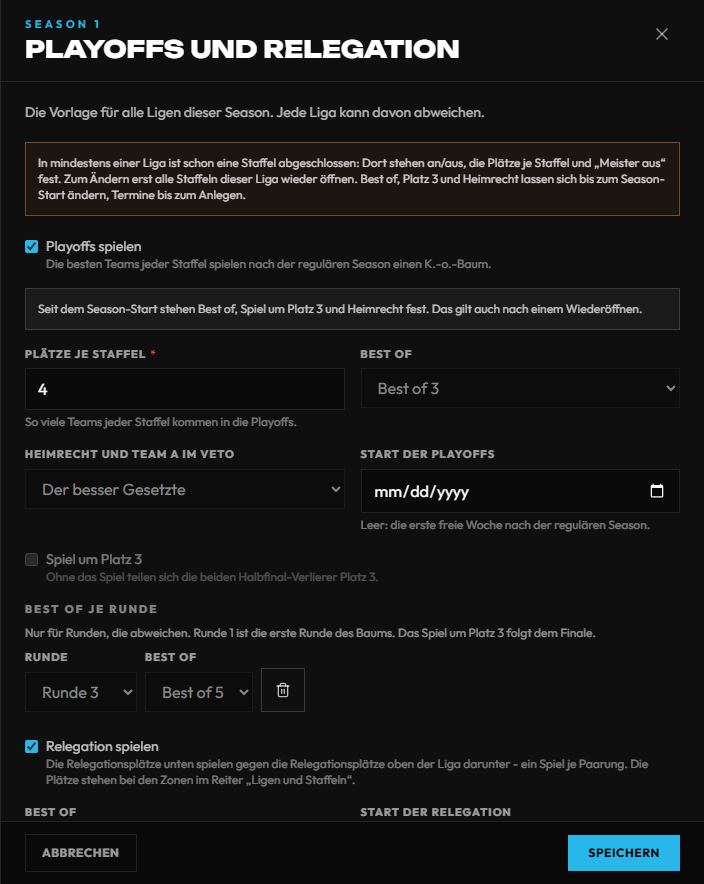
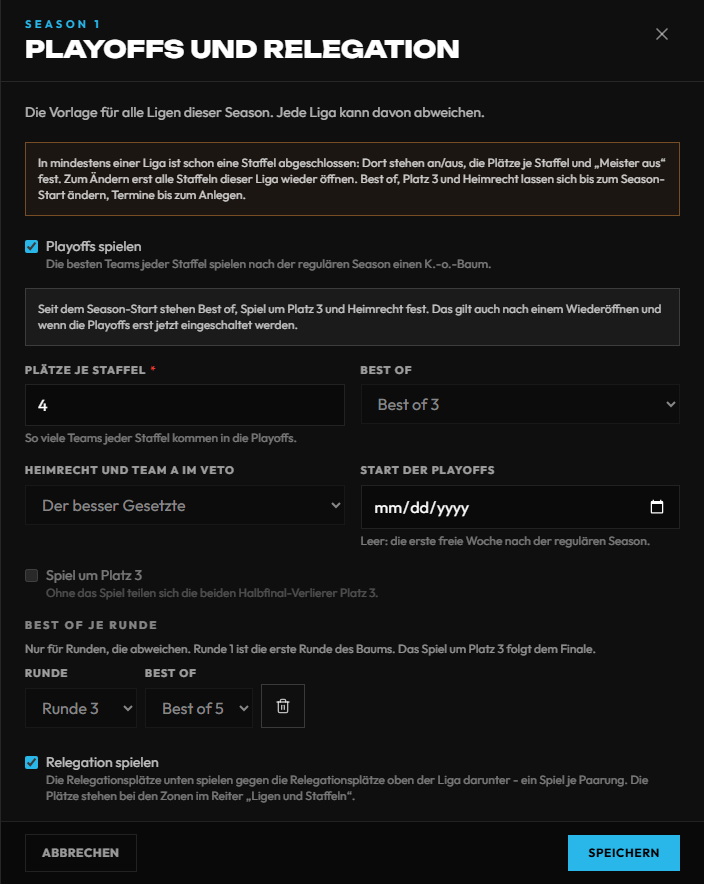
docs: Vertrag und Handbuch für Playoffs auf Nr. 250 und 251 nachgezogen (#2404)
- docs/LIGA.md F.6: Regeln Nr. 250 und 251, die Sperre ab dem Season-Start ohne Blick auf an/aus, der Schnappschuss mit der Zahl der Staffeln, Meister ohne Playoffs, keine weitere Staffel nach dem ersten Abschluss, versteckte Relegation an TV und Discord, das Zurücknehmen lässt den Termin stehen.
- Handbuch 3.10a: dieselben Regeln für die Leitung, Ligaseite vor und nach dem Abschluss der Relegation. Zwei Bilder neu.

diff --git a/docs/LIGA.md b/docs/LIGA.md
@@ -4304,12 +4304,13 @@ Gesamtwertung (Belohnungen schicken ihre eigene), TV und die App (`mobile/`, Lis
 
 ### F.6 Playoffs und Relegation (#2404)
 
-Stand 24.11.2026: **Vertrag an die Entscheidungen Nr. 203 bis 232 und Nr. 245 bis 249 angeglichen; Kern gebaut** (Abschnitt „Bau-Stand“ unten sagt, was
+Stand 24.11.2026: **Vertrag an die Entscheidungen Nr. 203 bis 232 und Nr. 245 bis 251 angeglichen; Kern gebaut** (Abschnitt „Bau-Stand“ unten sagt, was
 steht und was Folgepaket ist). Entscheidungen Nr. 203 bis 219 (Fabian, 23.11.: alle 17 Empfehlungen des
 Entwurfs übernommen), Nr. 221 bis 224 (Fabian, 23.11.: offene Punkte des Vertrags, Vergleich über Staffeln aus #1627) und, soweit sie
 Playoffs und Relegation berühren, Nr. 225 bis 232 (Los, fester Endstand, Sperren), dazu Nr. 245 bis 249 (Fabian, 24.11., nach der
 unabhängigen Prüfung: Nichtantritt, Termin der Relegation, bestätigte Vorgaben, Bezeichnung auf der Ligaseite, Sperre ab dem
-Season-Start). Hürden mit Fundstellen: Prüfbericht [liga/erweiterbarkeit.md](liga/erweiterbarkeit.md) (P1-P7). Baut auf F.1
+Season-Start) und Nr. 250 und 251 (Fabian, 24.11., nach der Nachprüfung: Platz nach beidseitigem Nichtantritt, Meister ohne
+Playoffs). Hürden mit Fundstellen: Prüfbericht [liga/erweiterbarkeit.md](liga/erweiterbarkeit.md) (P1-P7). Baut auf F.1
 (Endstand), F.2 (Zonen, Folge-Season), F.4 (Belohnungen), F.5 (Gesamtwertung), D.3 (Veto), E.3 (Strafen) und dem K.-o.-Baum des
 Turnierkerns (`services/custom_bracket.py`) auf. Wer diesen Vertrag ändern will, ändert zuerst diesen Abschnitt.
 
@@ -4342,10 +4343,10 @@ Turnierkerns (`services/custom_bracket.py`) auf. Wer diesen Vertrag ändern will
 | Playoff-Belohnungen (Nr. 214), Zusatzpunkte und Meister-Bonus der Gesamtwertung (Nr. 215) | **Folgepaket** | Leser sind schon getrennt: Playoff-Endstände zählen nirgends als Staffel |
 | Regelwerk-Baustein Anlage F, Warnungen in „Was fehlt noch?“ (Nr. 211, 216) | **Folgepaket** | - |
 | Discord: Die Abschluss-Meldung der Season nennt den Meister aus den Playoffs | gebaut (kleine Anbindung) | `league_discord.playoff_champions` |
-| TV und Discord: Feld `playoff` an den Tabellenzeilen (`tv_display.STANDING_FIELDS`); Saisonfinale und Abschluss-Meldung lesen Sieger und Verlierer der abgeschlossenen Relegation als Auf- und Absteiger (`zone_relegation: true` an der Zeile) | gebaut (kleine Anbindung im Server) | `tv_display`, `league_finale._overlay_relegation` |
+| TV und Discord: Feld `playoff` an den Tabellenzeilen (`tv_display.STANDING_FIELDS`); Saisonfinale und Abschluss-Meldung lesen Sieger und Verlierer der abgeschlossenen Relegation als Auf- und Absteiger. Beim Lesen trägt die Zeile des Endstands `zone_relegation: true`, die Zeile der Seite (`build_pages`) `via: "relegation"`. Gäste (TV, Discord) sehen das nur, wenn sie auch die Relegations-Staffel als Turnier sähen (`guest_sees_staffel`) | gebaut (kleine Anbindung im Server) | `tv_display`, `league_finale._overlay_relegation`, `build_pages` |
 | Mail, Glocke, Push („qualifiziert“, „Relegation gegen …“), Historie an Profil und Team, PDF, das Kennzeichen „Playoff-Platz“ in der Tabellen-Szene am TV (`TvStandings.jsx`; das Feld liefert der Server schon), Discord-Meldungen je Playoff-Runde | **Folgepaket** | Tabelle „Gesamtpaket“ |
 
-#### Regeln (Nr. 203-219, 221-232, 245-249)
+#### Regeln (Nr. 203-219, 221-232, 245-251)
 
 | Nr. | Regel | Einstellung (Vorgabe) | Paket |
 | --- | --- | --- | --- |
@@ -4375,13 +4376,15 @@ Turnierkerns (`services/custom_bracket.py`) auf. Wer diesen Vertrag ändern will
 | - | **Oberste und unterste Liga N** (aus F.2, keine eigene Entscheidung): Die oberste hat keine Relegation nach oben, die unterste keine nach unten (`league_zones.effective`); eine Relegation gibt es nur zwischen zwei benachbarten aktiven Liga N. Eine Vorlage der Season mit Relegation gilt für die unterste Liga N einfach nicht. Playoffs sind in jeder Liga N möglich, auch in der untersten | - | E |
 | 227 | **Kein Team in zwei Zonen:** Relegationsplätze stehen vor dem Kandidaten für „beste Zweite“; die Wirkung der Relegation überlagert darum nie eine Zone aus dem Vergleich der Staffeln | - | E |
 | 228 | **Einstellungen fest ab dem ersten Abschluss:** Sobald eine reguläre Staffel der Liga N abgeschlossen ist, lassen sich ihre sportlichen Playoff-Werte (an/aus, Plätze je Staffel, Relegation an/aus) und „Meister aus“ nicht mehr ändern - erst alle Staffeln wieder öffnen (wie Nr. 159). Gelesen wird aus dem Endstand (`final.postseason`), nie aus der heutigen Einstellung | - | B |
-| 231 | **Liga N anlegen, archivieren, löschen** bleibt ab dem ersten Abschluss gesperrt (F.2) - damit steht auch fest, welche Liga N ein Relegationspaar bilden | - | E |
+| 231 | **Liga N anlegen, archivieren, löschen** bleibt ab dem ersten Abschluss gesperrt (F.2) - damit steht auch fest, welche Liga N ein Relegationspaar bilden. **Dazu aus der Nachprüfung (#2404):** In einer Liga N, die Playoffs spielt oder an einer Relegation hängt (als obere oder untere Liga N), lässt sich auch keine weitere **reguläre Staffel** mehr anlegen, sobald dort eine Staffel abgeschlossen ist (`league_postseason.staffeln_locked`, 422 mit Klartext auf `POST …/divisions/{id}/staffeln`) - wie viele Teams in die Playoffs kommen und ob die Relegation aufgeht, rechnet mit den Staffeln, die es beim Abschluss gab. Erst wenn alle Staffeln der Liga N wieder geöffnet sind, geht es wieder. Ohne Playoffs und Relegation bleibt das Anlegen wie bisher | - | B, E |
 | 232 | **Season-Sperre:** Anlegen, „Setzliste neu berechnen“, Abschluss und Wiederöffnen (`league_final.close` und `league_final.reopen`) laufen unter `league_season_resource`, immer in der Reihenfolge Turnier → Season. Zwei gleichzeitige Aufrufe laufen nacheinander, der zweite bekommt „bitte erneut versuchen“ oder die schon angelegte Staffel | - | C, D, E |
 | 245 | **Beide nicht erschienen in Playoffs und Relegation** (schärft Nr. 217): Schon das **erste** Mal zählt für beide Seiten als „nicht erschienen“ für den Strafenkatalog (E.3), obwohl einmal neu angesetzt wird. Die Leitung kann es mit Grund zurücknehmen wie in der regulären Saison - dann fallen Neuansetzung und beide Einträge weg. Beim zweiten Mal scheiden beide aus; das lässt sich nicht zurücknehmen | - | C, E |
 | 246 | **Termin der Relegation** (erweitert Nr. 222): Die Relegation liegt **immer hinter den Playoffs der oberen Liga N** - und wie bisher hinter denen der unteren. Kein Team spielt so je zwei Pflichtspiele in einer Woche; das gilt auch, wenn die untere Liga N keine Playoffs hat | `relegation.start_date` (Vorgabe: automatisch; ein früheres Datum rückt trotzdem dahinter) | E |
 | 247 | **Bestätigte Vorgaben** (vorher Fachfragen): `reopen_guard` mit der Vorgabe `hint`; Nachrücken nur vor dem ersten gespielten Playoff-Spiel, der Nächste derselben Staffel übernimmt den Platz; Reihung der Relegationspaarungen wie die Setzung, das Los entscheidet nur die Paarung; Sperre von an/aus, Plätzen und „Meister aus“ ab dem ersten Abschluss (Nr. 228); sind im Finale beide nicht erschienen, bleibt der Titel unvergeben | - | B, C, E |
 | 248 | **Bezeichnung auf der Ligaseite:** Der Baum heißt „Playoffs“, die Paarungen „Relegation“ - nie „Winner Bracket“. Hat der Baum nur einen Abschnitt, steht kein Abschnittstitel (auch nicht die Kennung „REL“ bzw. „PO“) | - | D, E |
-| 249 | **Fest ab dem Season-Start:** Best of (auch je Runde), Spiel um Platz 3 und Heimrecht der Playoffs lassen sich ab dem Beginn der ersten Spielwoche nicht mehr ändern. Wiederöffnen hebt das nicht auf. Der Server antwortet 422 mit Klartext, das Web zeigt die Felder ausgegraut mit Hinweis. Im Entwurf und vor dem Start ist alles frei; Termine, Plätze je Staffel und die Relegation folgen weiter Nr. 228 | - | B |
+| 249 | **Fest ab dem Season-Start:** Best of (auch je Runde), Spiel um Platz 3 und Heimrecht der Playoffs lassen sich ab dem Beginn der ersten Spielwoche nicht mehr ändern - **gleich, ob die Playoffs an oder aus sind**. Wiederöffnen hebt das nicht auf, Aus- und Wiedereinschalten auch nicht; wer die Playoffs erst nach dem Start einschaltet, bekommt die Werte vom Start (gab es keine: die Vorgaben). Der Server antwortet 422 mit Klartext, das Web zeigt die Felder ausgegraut mit Hinweis. Im Entwurf und vor dem Start ist alles frei; Termine, Plätze je Staffel und die Relegation folgen weiter Nr. 228 | - | B |
+| 250 | **Beidseitig abwesend ausgeschieden - eine Regel für alle K.-o.-Runden:** Wer nach dem zweiten „beide nicht erschienen“ ausscheidet (Nr. 217, 245), steht **einen Platz hinter den Verlierern dieser Runde, die gespielt haben**: im Halbfinale Platz 4 (mit und ohne Spiel um Platz 3), im Viertelfinale Platz 6, im Achtelfinale Platz 10. Die Betroffenen bleiben Teilnehmer (kein `exit` an der Zeile), etwa für Belohnungen. Im Finale bleibt es bei Nr. 247: Titel unvergeben, kein Platz 1 und 2 | - | D |
+| 251 | **Meister ohne Playoffs:** Spielt die oberste Liga N keine Playoffs - gleich warum: zu wenige Teams nach den Einstellungen oder nach Austritten - und steht „Meister aus Playoffs“ an, dann ist Meister das **beste verbliebene Team der Tabelle**. Ist keines übrig, bleibt der Titel unvergeben. Sonst bleibt „unvergeben“ nur für „im Finale fehlen beide“ (Nr. 247) | - | D |
 
 #### Datenmodell
 
@@ -4397,7 +4400,8 @@ Alle Felder optional; ohne Feld bleibt alles wie heute.
 | | `postseason_end` | Ende der letzten Playoff- bzw. Relegations-Woche (UTC), vom Server gepflegt beim Speichern der Einstellungen und beim Anlegen (V1) | Season endet mit der letzten regulären Spielwoche |
 | `league_divisions` | `postseason` | fehlt: wie die Season; Objekt `{playoffs?, relegation?}`: eigene Werte dieser Liga N, ein fehlender Teil heißt „wie die Season“. Die Relegation steht an der **oberen** Liga N des Paares. `champion_source` gibt es nur an der Season | wie die Season |
 | `league_final_tables` | `kind` | `"playoff"` \| `"relegation"` an den Fassungen dieser Staffeln | Tabellen-Endstand |
-| | `postseason` | an der Fassung einer **regulären** Staffel: `{per_staffel, champion_source}` - was beim Abschluss galt (Nr. 228). Nur gesetzt, wenn Playoffs an sind bzw. der Meister aus den Playoffs kommt | keine Playoffs aus dieser Staffel |
+| | `postseason` | an der Fassung einer **regulären** Staffel: `{per_staffel, staffeln, champion_source}` - was beim **ersten** Abschluss der Liga N galt (Nr. 228): Plätze je Staffel, Zahl der regulären Staffeln, „Meister aus“. Jede weitere Staffel derselben Liga N übernimmt diesen Schnappschuss unverändert, solange eine Fassung der Liga N gilt (`league_postseason._frozen`) - daraus liest der Server, ob Playoffs gespielt werden (`playoffs_feasible`) und woher der Meister kommt (`champion_from_playoffs`), nie aus der Zahl der Staffeln von heute. Nur gesetzt, wenn Playoffs an sind bzw. der Meister aus den Playoffs kommt | keine Playoffs aus dieser Staffel |
+| | `champion_fallback` | `true` an der Fassung einer regulären Staffel, deren `champion` nach Nr. 251 gesetzt wurde (Meister ohne Playoffs): beim Season-Abschluss nachgetragen, bei einem Wiederöffnen in der Season wieder entfernt | Meister wie beim Abschluss festgehalten |
 | | `outcome` | nur Relegation: `{<squad_id>: "up" \| "down" \| "stay"}` | - |
 | | `rows[].playoff` | an der Fassung einer **regulären** Staffel: `true` für die qualifizierten Teams (eigenes Kennzeichen neben `zone`, weil ein Team in einer unteren Liga N zugleich Aufsteiger und Playoff-Teilnehmer sein kann) | nicht qualifiziert |
 | `tournament_registrations` (Playoff- und Relegations-Staffel) | `seed`, `postseason` | Setzplatz und Herkunft `{from_tournament_id, from_registration_id, from_staffel, rank}` | - |
@@ -4434,15 +4438,27 @@ seit Nr. 246 entschieden.
 
 **Sperre ab dem Season-Start (Nr. 249):** Sobald die Season nicht mehr im Entwurf ist und ihre erste Spielwoche begonnen hat
 (`league_postseason.season_started`), antwortet das Speichern mit 422 und Klartext, wenn sich `playoffs.best_of`,
-`playoffs.best_of_rounds`, `playoffs.third_place` oder `playoffs.home` einer Liga N ändern würden, die vorher und nachher Playoffs
-spielt. Wiederöffnen einer Staffel hebt das nicht auf. Die Vorschau meldet `started`, das Web graut die Felder aus.
+`playoffs.best_of_rounds`, `playoffs.third_place` oder `playoffs.home` einer Liga N ändern würden. Verglichen wird, was in der Liga N
+gilt (Vorlage der Season, Abweichung, Vorgaben) - **ohne Blick auf an/aus**, über beide Wege (`PUT …/seasons/{id}/postseason` und
+`PUT …/divisions/{id}/postseason`). Darum hilft weder Aus- und Wiedereinschalten noch ein erstes Einschalten nach dem Start: Dann
+gelten die Werte vom Start bzw. die Vorgaben (Best of der Season, kein Spiel um Platz 3, Heimrecht des besser Gesetzten).
+Wiederöffnen einer Staffel hebt das nicht auf. Die Vorschau meldet `started`, das Web graut die Felder aus, sobald `started` gilt.
 
 **Zu wenige Playoff-Teams:** Ergeben Plätze je Staffel × Zahl der regulären Staffeln einer Liga N weniger als zwei, **spielt diese
 Liga N keine Playoffs** - sie zählt überall als „ohne Playoffs“: Die Season wartet nicht auf sie (`missing`), ihr Meister kommt aus der
 Tabelle (auch bei `champion_source: "playoffs"`; an der Fassung steht dann kein `champion_source`). Das Speichern hält das nicht auf,
-gibt aber den Satz dazu als `warnings` zurück; das Cockpit zeigt ihn an der Liga N (`too_few_hint`). Dasselbe gilt, wenn nach den
-Abschlüssen weniger als zwei Teams übrig sind (Sperrgrund `too_few` in der Vorschau): Die Season schließt trotzdem; kam der Meister
-laut Fassung aus den Playoffs, bleibt der Titel in diesem seltenen Fall unvergeben.
+gibt aber den Satz dazu als `warnings` zurück; das Cockpit zeigt ihn an der Liga N (`too_few_hint`). Ob gespielt wird, steht mit dem
+ersten Abschluss der Liga N fest (`postseason.staffeln` am Endstand): Eine Staffel, die danach dazukäme oder wegfiele, ändert es nicht
+mehr - und eine weitere reguläre Staffel lässt sich dort nicht mehr anlegen (Zeile Nr. 231 oben).
+
+**Meister ohne Playoffs (Nr. 251):** Bleiben nach den Abschlüssen weniger als zwei Playoff-Teams übrig (Austritte; Sperrgrund `too_few`
+in der Vorschau), schließt die Season trotzdem. Hält der Endstand der obersten Liga N „Meister aus Playoffs“ fest und gibt es keine
+Playoff-Staffel, ist Meister das **beste verbliebene Team der Tabelle** - das eine Team, das noch in die Playoffs gekommen wäre
+(`league_postseason.table_champion`); ist keines übrig, bleibt der Titel unvergeben. Der Eintrag entsteht, sobald die Season fertig
+ist (`league_final.champion_without_playoffs`, nach jedem Abschluss und Wiederöffnen geprüft): `champion` und `champion_fallback: true`
+am geltenden Endstand der Staffel dieses Teams, dazu der Meister-Eintrag in `tournament_awards`. Wird in der Season wieder geöffnet
+oder entsteht doch eine Playoff-Staffel, verschwindet beides wieder - nie ein Meister aus der Tabelle neben einem aus den Playoffs.
+Geprüft wird bei jedem Abschluss und Wiederöffnen - das genügt, weil eine abgeschlossene Staffel keinen Austritt mehr annimmt (Schreibsperre, 409).
 
 Weitere Prüfungen: Relegation „geht auf“ (Nr. 212) für jedes Paar benachbarter aktiver Liga N mit eingeschalteter Relegation - beim
 Speichern gegen die eingestellten Zonen und die Zahl der Staffeln, in der Vorschau noch einmal gegen die tatsächlichen Staffeln. Eine
@@ -4526,6 +4542,7 @@ Obere spielt gegen den schlechtesten Unteren, der zweitbeste Obere gegen den zwe
    → neuer Termin durch die Leitung, `no_show_retry` am Spiel, und für beide Seiten ein Eintrag „nicht erschienen“ wie in der regulären
    Saison (Nr. 245, `record_walkover_incident`). Zurücknehmen mit Grund über denselben Weg wie in der Tabelle
    (`DELETE …/staffeln/{tid}/matches/{mid}/double-no-show`, Antwort `no_show_step: "undo"`): Neuansetzung und beide Einträge fallen weg.
+   Den Termin fasst das Zurücknehmen nicht an: Ein inzwischen gesetzter neuer Termin bleibt stehen (`previous_at` dient nur dem Protokoll).
    Zweites Mal → beide scheiden aus, der nächste Gegner kommt kampflos weiter; das lässt sich nicht zurücknehmen (409).
    Im Finale bleibt der Titel unvergeben (Endstand ohne Platz 1 und 2, `champion: null`). Relegation: unteres Team fehlt → `stay` für beide;
    oberes fehlt → unteres `up`, oberes `down`; beide fehlen → `stay` für beide. Scheidet ein Team vor dem ersten gespielten
@@ -4543,14 +4560,16 @@ Obere spielt gegen den schlechtesten Unteren, der zweitbeste Obere gegen den zwe
   Schreibsperre, Fassungen). Anders sind nur die Zeilen: statt `_standing_rows` die Plätze aus dem Baum
   (`competition_standings.placement_rows_for_structure`): 1 Sieger, 2 Finalist, 3 Sieger des Spiels um Platz 3 bzw. beide
   Halbfinal-Verlierer geteilt (Nr. 210), 4 Verlierer des Spiels um Platz 3, dann je Runde geteilt (5 für die Viertelfinal-Verlierer usw.).
-  Sind in einem Halbfinale **beide nicht erschienen** (ausgeschieden nach Nr. 217), stehen sie nie auf Platz 3 neben einem Team, das
-  gespielt hat: Hat das Spiel um Platz 3 einen Sieger, sind beide Vierte; sonst - auch ohne Spiel um Platz 3 - haben sie keinen Platz.
+  Wer nach dem zweiten „beide nicht erschienen“ ausscheidet, steht **einen Platz hinter den Verlierern seiner Runde, die gespielt
+  haben** (Nr. 250, eine Regel für alle Runden): im Halbfinale Platz 4 - mit und ohne Spiel um Platz 3 -, im Viertelfinale Platz 6
+  (`2^(Runden bis zum Finale) + 2`). Die Zeile trägt kein `exit`: Sie bleiben Teilnehmer. Nur im Finale gibt es dafür keinen Platz.
   Fassung mit `kind: "playoff"`. `champion_tie`, `zone_tie` und `no_champion` entfallen dort (ein unvergebener Titel nach Nr. 217 sperrt
   nicht); alle anderen Sperrgründe gelten.
 - **Meister** (Nr. 211): `champion_source` fehlt oder `table` → wie heute (F.1). `playoffs` → `league_final.record_champion` schreibt den
   Eintrag beim Abschluss der Playoff-Staffel der obersten Liga N (`league.staffel` leer, `title: "Meister"`, `final_table_id`, `version`,
   dazu `final_match_id`). Wiederöffnen lässt ihn ruhen wie heute, ein neuer Abschluss mit anderem Sieger wechselt das Team - **nie zwei
-  Meister**. In unteren Liga N heißt der Playoff-Sieger „Playoff-Sieger“, nicht Meister.
+  Meister**. In unteren Liga N heißt der Playoff-Sieger „Playoff-Sieger“, nicht Meister. Spielt die oberste Liga N keine Playoffs,
+  gilt Nr. 251 (oben „Meister ohne Playoffs“).
 - **Halb angelegte Staffel:** Bricht das Anlegen ab, bevor Phase und Baum stehen, gilt die Staffel als **unfertig** (kein Dokument in
   `tournament_stages`). Die Vorschau zeigt sie nicht als vorhanden, der nächste Aufruf räumt sie weg und baut neu - er antwortet nie
   mit der halben Staffel als „gab es schon“.
@@ -4766,17 +4785,14 @@ ausdrückliches `kind: "regular"` an alten Staffeln wäre eine Migration und ist
    der Staffel änderbar.
 9. **Vertragsvorgaben ohne Entscheid** (oben unter den Einstellungen): Grenzen von `per_staffel`, Best of des Spiels um Platz 3 - als
    Vorgaben gebaut, in den Einstellungen sichtbar.
-10. **Halbfinale, beide nicht erschienen** - **Vorgabe, nicht von Fabian entschieden:** Mit einem Sieger im Spiel um Platz 3 sind
-    beide Vierte, sonst haben sie keinen Platz (auch ohne Spiel um Platz 3, statt eines geteilten dritten Platzes).
-11. **Zu wenige Teams erst nach den Abschlüssen** - **Vorgabe, nicht von Fabian entschieden:** Bleiben in einer Liga N mit „Meister aus
-    Playoffs“ nach Austritten weniger als zwei Playoff-Teams, schließt die Season ohne Playoffs und der Titel bleibt unvergeben.
-    Ergibt schon die Einstellung weniger als zwei Teams, kommt der Meister aus der Tabelle.
+10. **Beidseitig abwesend ausgeschieden** - entschieden (Nr. 250): einen Platz hinter den Verlierern der Runde, die gespielt haben.
+11. **Keine Playoffs trotz „Meister aus Playoffs“** - entschieden (Nr. 251): Meister ist das beste verbliebene Team der Tabelle.
 5. **Verhältnis zu #1559:** Das Setzlisten-Modul dort als gemeinsamen Baustein eintragen (Hinweis).
 6. **Abgrenzung zu #1627 „Startrechte“:** von diesem Vertrag nicht berührt.
 
 Entschieden am 23.11. (vorher offen): Setzung mit einmal gereihten Staffeln (Nr. 221), Relegation automatisch hinter den Playoffs der
 unteren Liga N (Nr. 222), Relegationsspiele zählen für Sperren (Nr. 223), Vergleich über Staffeln aus #1627 ohne Los (Nr. 224).
-Entschieden am 24.11. nach der Prüfung: Nr. 245 bis 249 (Tabelle „Regeln“).
+Entschieden am 24.11. nach der Prüfung: Nr. 245 bis 249, nach der Nachprüfung: Nr. 250 und 251 (Tabelle „Regeln“).
 
 ### F.7 Saisonfinale am TV und Liga im Discord (#1641, #1642)
 

diff --git a/docs/handbuch/liga.md b/docs/handbuch/liga.md
@@ -1839,14 +1839,16 @@ der regulären Staffeln und ändern ihn nie.
 - **Relegationsplätze** stellst du wie bisher bei den Zonen ein (Reiter **Ligen und Staffeln**: „Relegation unten“ in der oberen Liga,
   „Relegation oben“ in der Liga darunter). Die Zahl muss **aufgehen** – sonst sagt das Speichern, was nicht passt.
 - **Fest ab dem Season-Start:** Best of (auch je Runde), Spiel um Platz 3 und Heimrecht der Playoffs stehen fest, sobald die erste
-  Spielwoche begonnen hat. Die Felder sind dann ausgegraut, das Fenster sagt es. Wiederöffnen einer Staffel ändert daran nichts.
-  Stell sie also **vor dem Start** ein.
+  Spielwoche begonnen hat. Die Felder sind dann ausgegraut, das Fenster sagt es. Wiederöffnen einer Staffel ändert daran nichts,
+  Aus- und Wiedereinschalten auch nicht. Schaltest du die Playoffs erst nach dem Start ein, gelten die Werte vom Start – gab es
+  keine, die Vorgaben (Best of der Season, kein Spiel um Platz 3, Heimrecht für den besser Gesetzten). Stell sie also **vor dem
+  Start** ein.
 
   <img src="../assets/liga/playoffs-gesperrt-pc.png" alt="Fenster Playoffs und Relegation nach dem Season-Start: Hinweis Seit dem Season-Start stehen Best of, Spiel um Platz 3 und Heimrecht fest, die Felder Best of, Heimrecht, Spiel um Platz 3 und Best of je Runde sind ausgegraut" width="720">
 
 - **Fest ab dem ersten Abschluss:** Sobald eine Staffel einer Liga abgeschlossen ist, lassen sich dort an/aus, die Plätze je Staffel
-  und „Meister aus“ nicht mehr ändern. Zum Ändern erst alle Staffeln dieser Liga wieder öffnen. Termine bleiben bis zum Anlegen
-  änderbar.
+  und „Meister aus“ nicht mehr ändern. Spielt die Liga Playoffs oder Relegation, lässt sich dort dann auch keine weitere Staffel
+  mehr anlegen. Zum Ändern erst alle Staffeln dieser Liga wieder öffnen. Termine bleiben bis zum Anlegen änderbar.
 - **Zu wenige Teams:** Für Playoffs braucht es zwei Teams. Kommen in einer Liga mit den Plätzen je Staffel und ihren Staffeln weniger
   zusammen (ein Platz bei nur einer Staffel), sagt das Speichern das und an der Liga steht **Keine Playoffs**. Diese Liga spielt dann
   keine: Ihr Meister kommt aus der Tabelle, die Season wartet nicht darauf.
@@ -1886,7 +1888,8 @@ zählen nicht mit.
 - **Kampflos:** Tritt ein Team nicht an, kommt der Gegner weiter – wie gewohnt über „kampflos werten“.
 - **Beide nicht erschienen:** Beim ersten Mal wird **einmal neu angesetzt** – das Spiel wird nicht gewertet, du setzt den neuen
   Termin. Für beide Teams zählt es aber schon als **„nicht erschienen“** (Strafenkatalog, wie in der Season). War es ein Irrtum:
-  **Neuansetzung zurücknehmen** am Spiel, mit Grund – dann fallen auch die beiden Einträge weg. Kommt wieder niemand, scheiden
+  **Neuansetzung zurücknehmen** am Spiel, mit Grund – dann fallen auch die beiden Einträge weg; ein schon gesetzter neuer Termin
+  bleibt stehen. Kommt wieder niemand, scheiden
   **beide aus**: Der nächste Gegner kommt kampflos weiter, im Finale bleibt der Titel unvergeben, in der Relegation bleibt alles, wie
   es ist. Das Ausscheiden lässt sich nicht zurücknehmen.
 - **Team zieht sich zurück:** Austritt wie gewohnt auf der Staffel-Seite (Teilnehmer). Der Gegner kommt kampflos weiter.
@@ -1900,11 +1903,16 @@ zählen nicht mit.
 genauso abgeschlossen (Checkliste, Bestätigung, zweite Person beim Wiederöffnen). Statt einer Tabelle steht dort:
 
 - **Playoffs:** die Plätze aus dem Baum – 1 Sieger, 2 Finalist, 3 geteilt für beide Halbfinal-Verlierer (mit Spiel um Platz 3: Platz 3
-  und 4), dann je Runde geteilt (Platz 5 für die Viertelfinal-Verlierer). Sind in einem Halbfinale beide nicht erschienen und
-  ausgeschieden, stehen sie nie auf Platz 3: mit Spiel um Platz 3 sind sie Vierte, sonst ohne Platz.
+  und 4), dann je Runde geteilt (Platz 5 für die Viertelfinal-Verlierer). Sind in einem Spiel beide zweimal nicht erschienen und
+  ausgeschieden, stehen sie **einen Platz hinter den Verlierern dieser Runde**, die gespielt haben: im Halbfinale auf Platz 4, im
+  Viertelfinale auf Platz 6. Sie bleiben Teilnehmer der Playoffs.
 - **Relegation:** je Team das Ergebnis und was daraus folgt – „steigt auf“, „steigt ab“ oder „bleibt“.
 - **Meister:** Bei „Meister aus Playoffs“ entsteht der Meister-Eintrag beim Abschluss der Playoffs der obersten Liga. Es gibt nie
   zwei Meister. In unteren Ligen heißt der Sieger Playoff-Sieger.
+- **Meister ohne Playoffs:** Spielt die oberste Liga keine Playoffs – weil von vornherein zu wenige Teams hineinkämen oder weil
+  sich Teams zurückgezogen haben –, ist Meister das **beste verbliebene Team der Tabelle**. Der Eintrag entsteht, sobald die
+  Season beendet ist. Ist kein Team mehr übrig, bleibt der Titel unvergeben. Unvergeben bleibt er sonst nur, wenn im Finale beide
+  zweimal nicht erscheinen.
 - **Die Season ist erst beendet**, wenn auch Playoffs und Relegation abgeschlossen sind. Solange etwas Eingestelltes noch nicht
   angelegt ist, steht es oben im Reiter und die Season läuft weiter. Auf eine Liga, in der keine zwei Playoff-Teams zusammenkommen,
   wartet sie nicht.
@@ -1919,12 +1927,13 @@ spielen sie mit ihrer Setzliste weiter; weicht die neue Setzliste ab, sagt die K
 dem ersten gespielten Spiel.
 
 **Auf der Ligaseite** stehen Playoffs und Relegation unter den Tabellen ihrer Liga – nur bei einer sichtbaren Season. Die
-**Playoffs** als Baum, die **Relegation** als Paarungen: je Karte das Team der oberen Liga (Heim) und das der unteren, mit Ergebnis
-und was daraus folgt („steigt auf“, „steigt ab“, „bleibt“).
+**Playoffs** als Baum, die **Relegation** als Paarungen: je Karte das Team der oberen Liga (Heim) und das der unteren, mit Ergebnis.
+Solange die Relegation läuft, steht dort, wer gewonnen hat. Was daraus folgt („steigt auf“, „steigt ab“, „bleibt“), steht erst
+nach ihrem Abschluss da.
 
 <img src="../assets/liga/playoffs-ligaseite-pc.png" alt="Ligaseite am PC: Abschnitt Playoffs mit K.-o.-Baum aus Viertelfinale, Halbfinale und Finale, daneben der Link Alle Spiele" width="900">
 
-<img src="../assets/liga/playoffs-relegation-pc.png" alt="Ligaseite am PC: Abschnitt Relegation mit zwei Paarungen, je Karte das Team aus Liga 1 mit Heimrecht und das Team aus Liga 2, links mit Ergebnis 1 zu 2 und dem Satz, wer aufsteigt und wer absteigt, rechts noch nicht gespielt" width="900">
+<img src="../assets/liga/playoffs-relegation-pc.png" alt="Ligaseite am PC: Abschnitt Relegation nach dem Abschluss mit zwei Paarungen, je Karte das Team aus Liga 1 mit Heimrecht und das Team aus Liga 2 mit Ergebnis; links steigt das Team aus Liga 2 auf und das aus Liga 1 ab, rechts bleiben beide in ihrer Liga" width="900">
 
 **Noch nicht dabei:** eigene Belohnungen für die Playoffs, Zusatzpunkte in der Gesamtwertung, die Anlage im Regelwerk, Nachrichten
 „für die Playoffs qualifiziert“, Doppel-K.-o. und Wildcards. Belohnungen und Gesamtwertung zählen weiter den Tabellenplatz.
@@ -2114,6 +2123,7 @@ die Wertung unter **Gesamtwertung** (mit PDF), Profil und Teamseite den Platz.
 | --- | --- | --- |
 | „Mit bis zu 9 Teams (nur Hinrunde) braucht die Staffel 9 Spielwochen, die Season hat aber nur 8 aktive Wochen …“ | Die Staffel ist zu groß für die Spielwochen | **Teams je Staffel höchstens** senken und eine zweite Staffel anlegen – oder mehr Wochen |
 | „Staffel A gibt es in dieser Liga schon.“ | Buchstabe vergeben | **Staffel anlegen** nimmt von selbst den nächsten freien |
+| „In dieser Liga ist schon eine Staffel abgeschlossen. Eine weitere Staffel anlegen geht dann nicht mehr …“ | Die Liga spielt Playoffs oder Relegation – beides rechnet mit den Staffeln, die es beim Abschluss gab | Erst alle abgeschlossenen Staffeln dieser Liga im Reiter **Abschluss** wieder öffnen (3.10) |
 | „… hat 3 Spieler im Kader – die Liga verlangt mindestens 4.“ | Kader zu klein | Teamleitung ergänzt den Kader im Profil |
 | „… hat schon ein Co-Team in dieser Staffel – zwei Co-Teams desselben Teams spielen nie in derselben Staffel.“ | Gewollt | Zweites Co-Team in eine andere Staffel |
 | „… spielt in dieser Season schon in einer anderen Staffel.“ | Ein Co-Team spielt je Season nur eine Staffel | Andere Staffel wählen oder dort entfernen |
